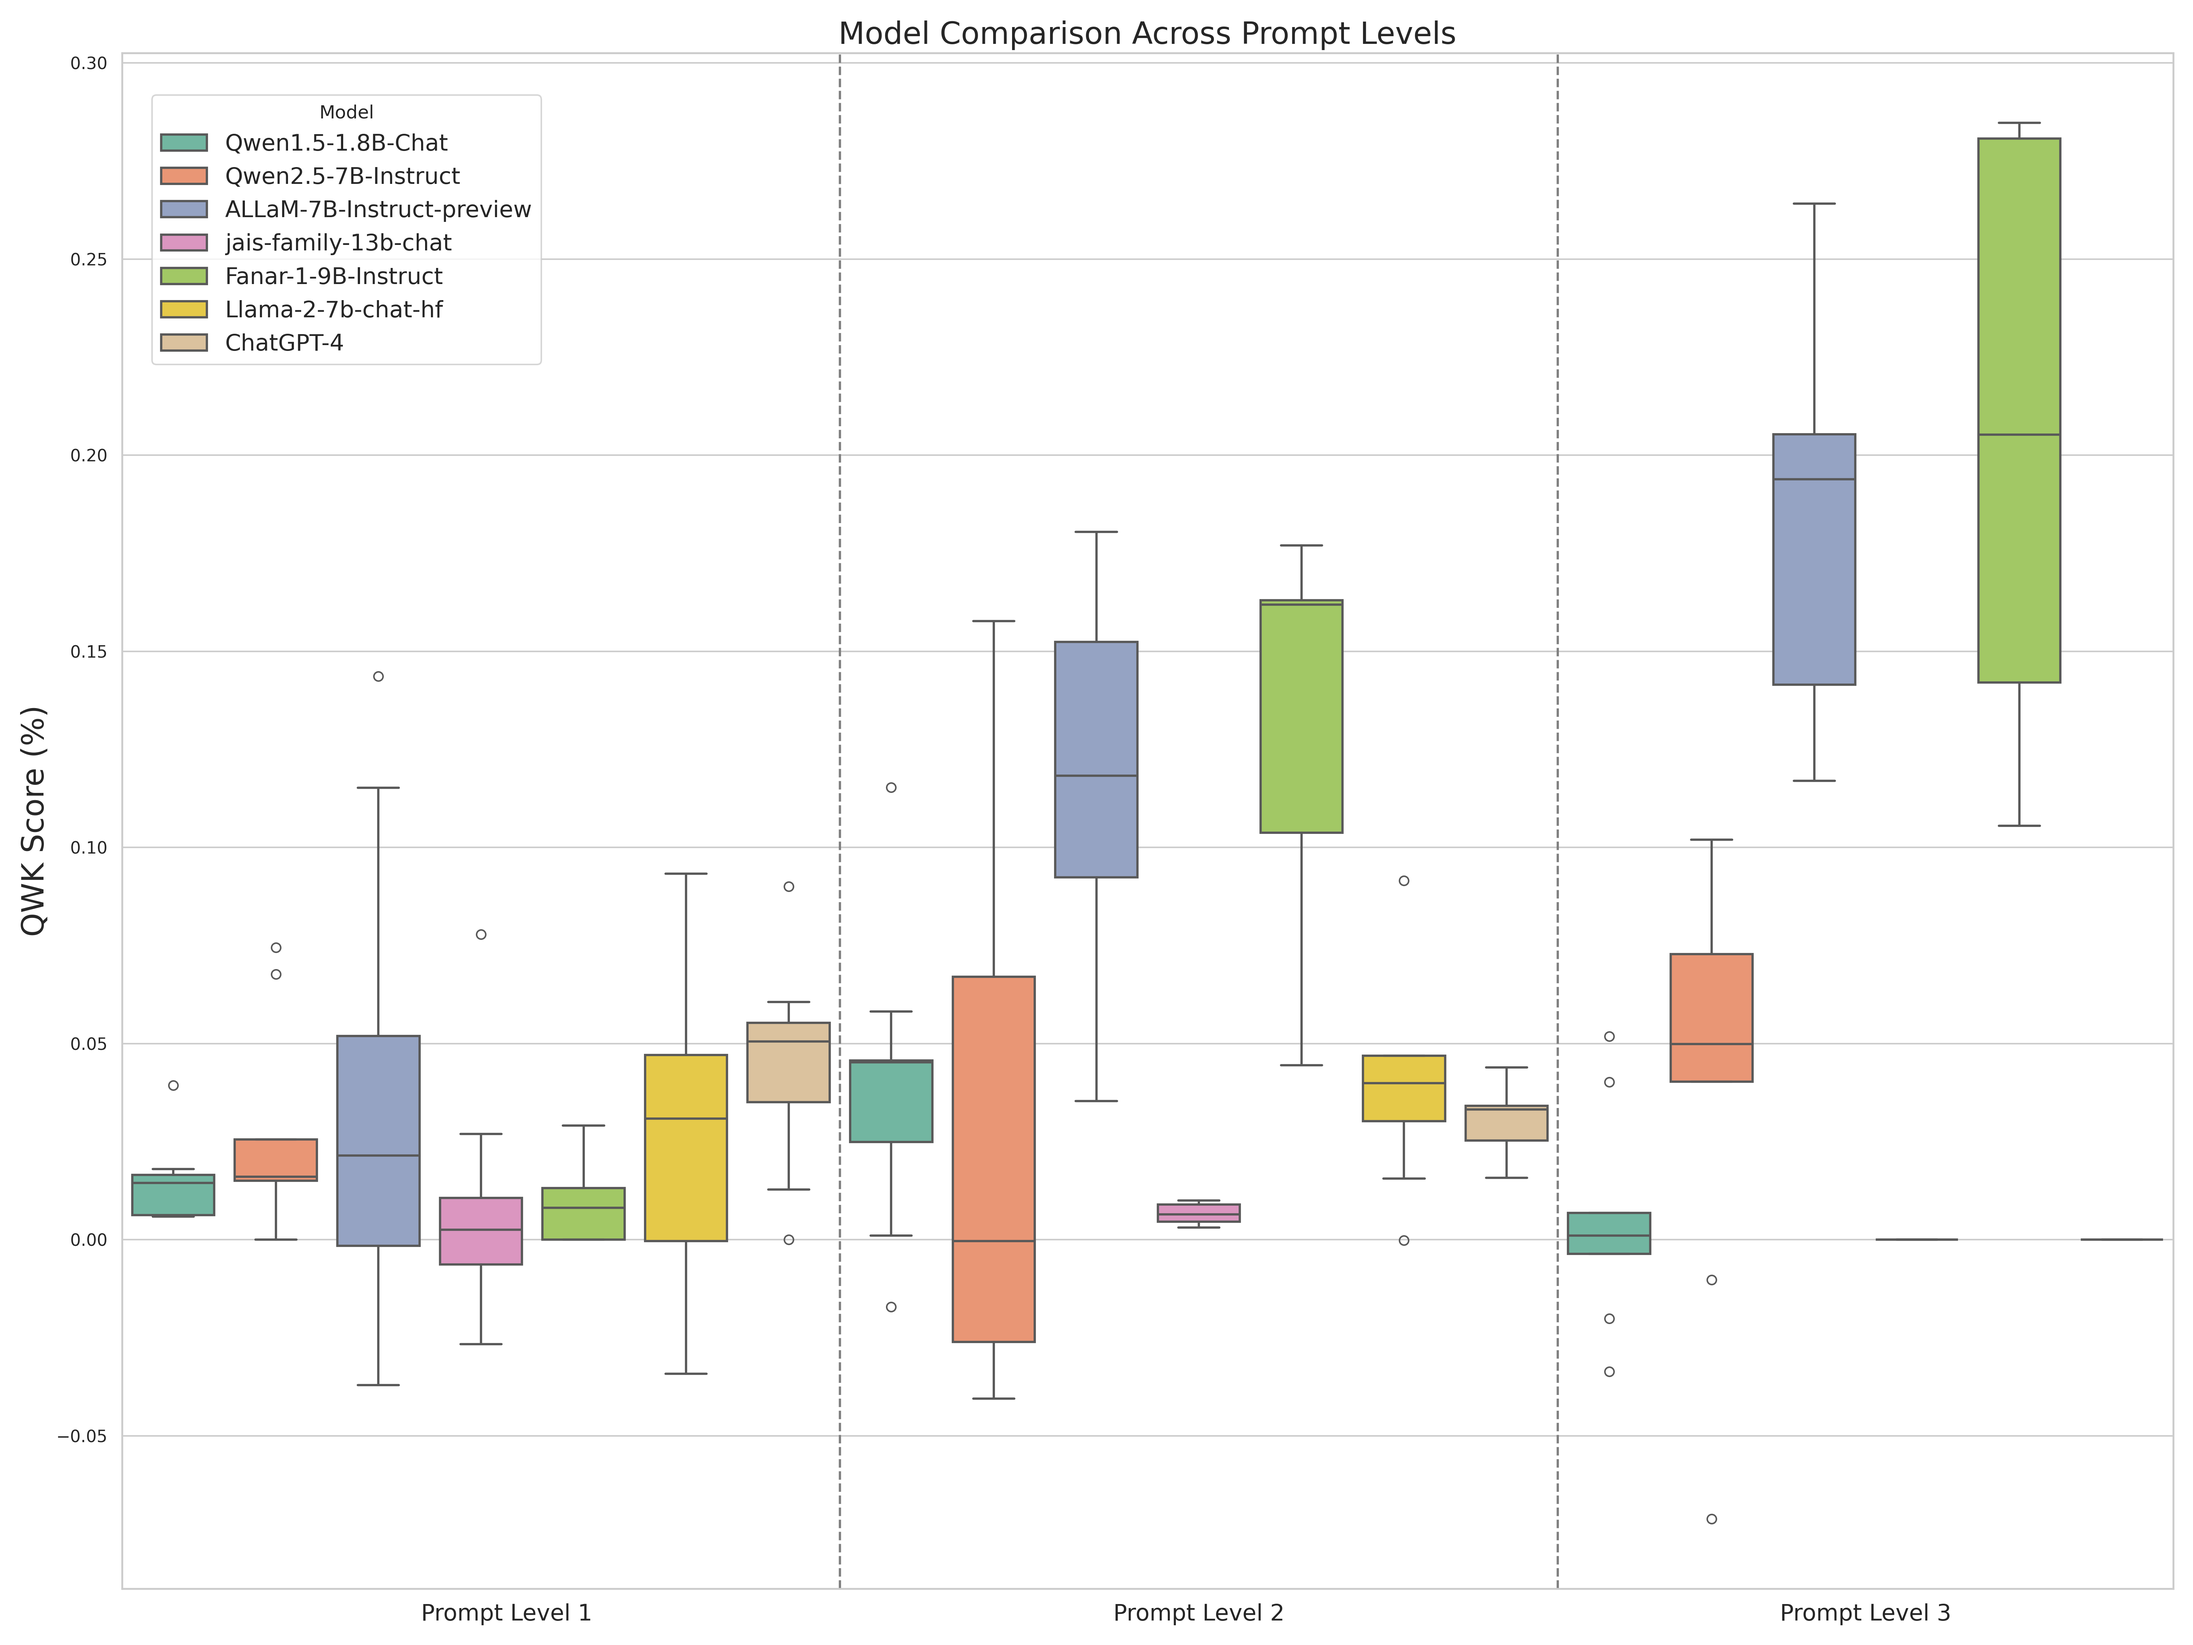
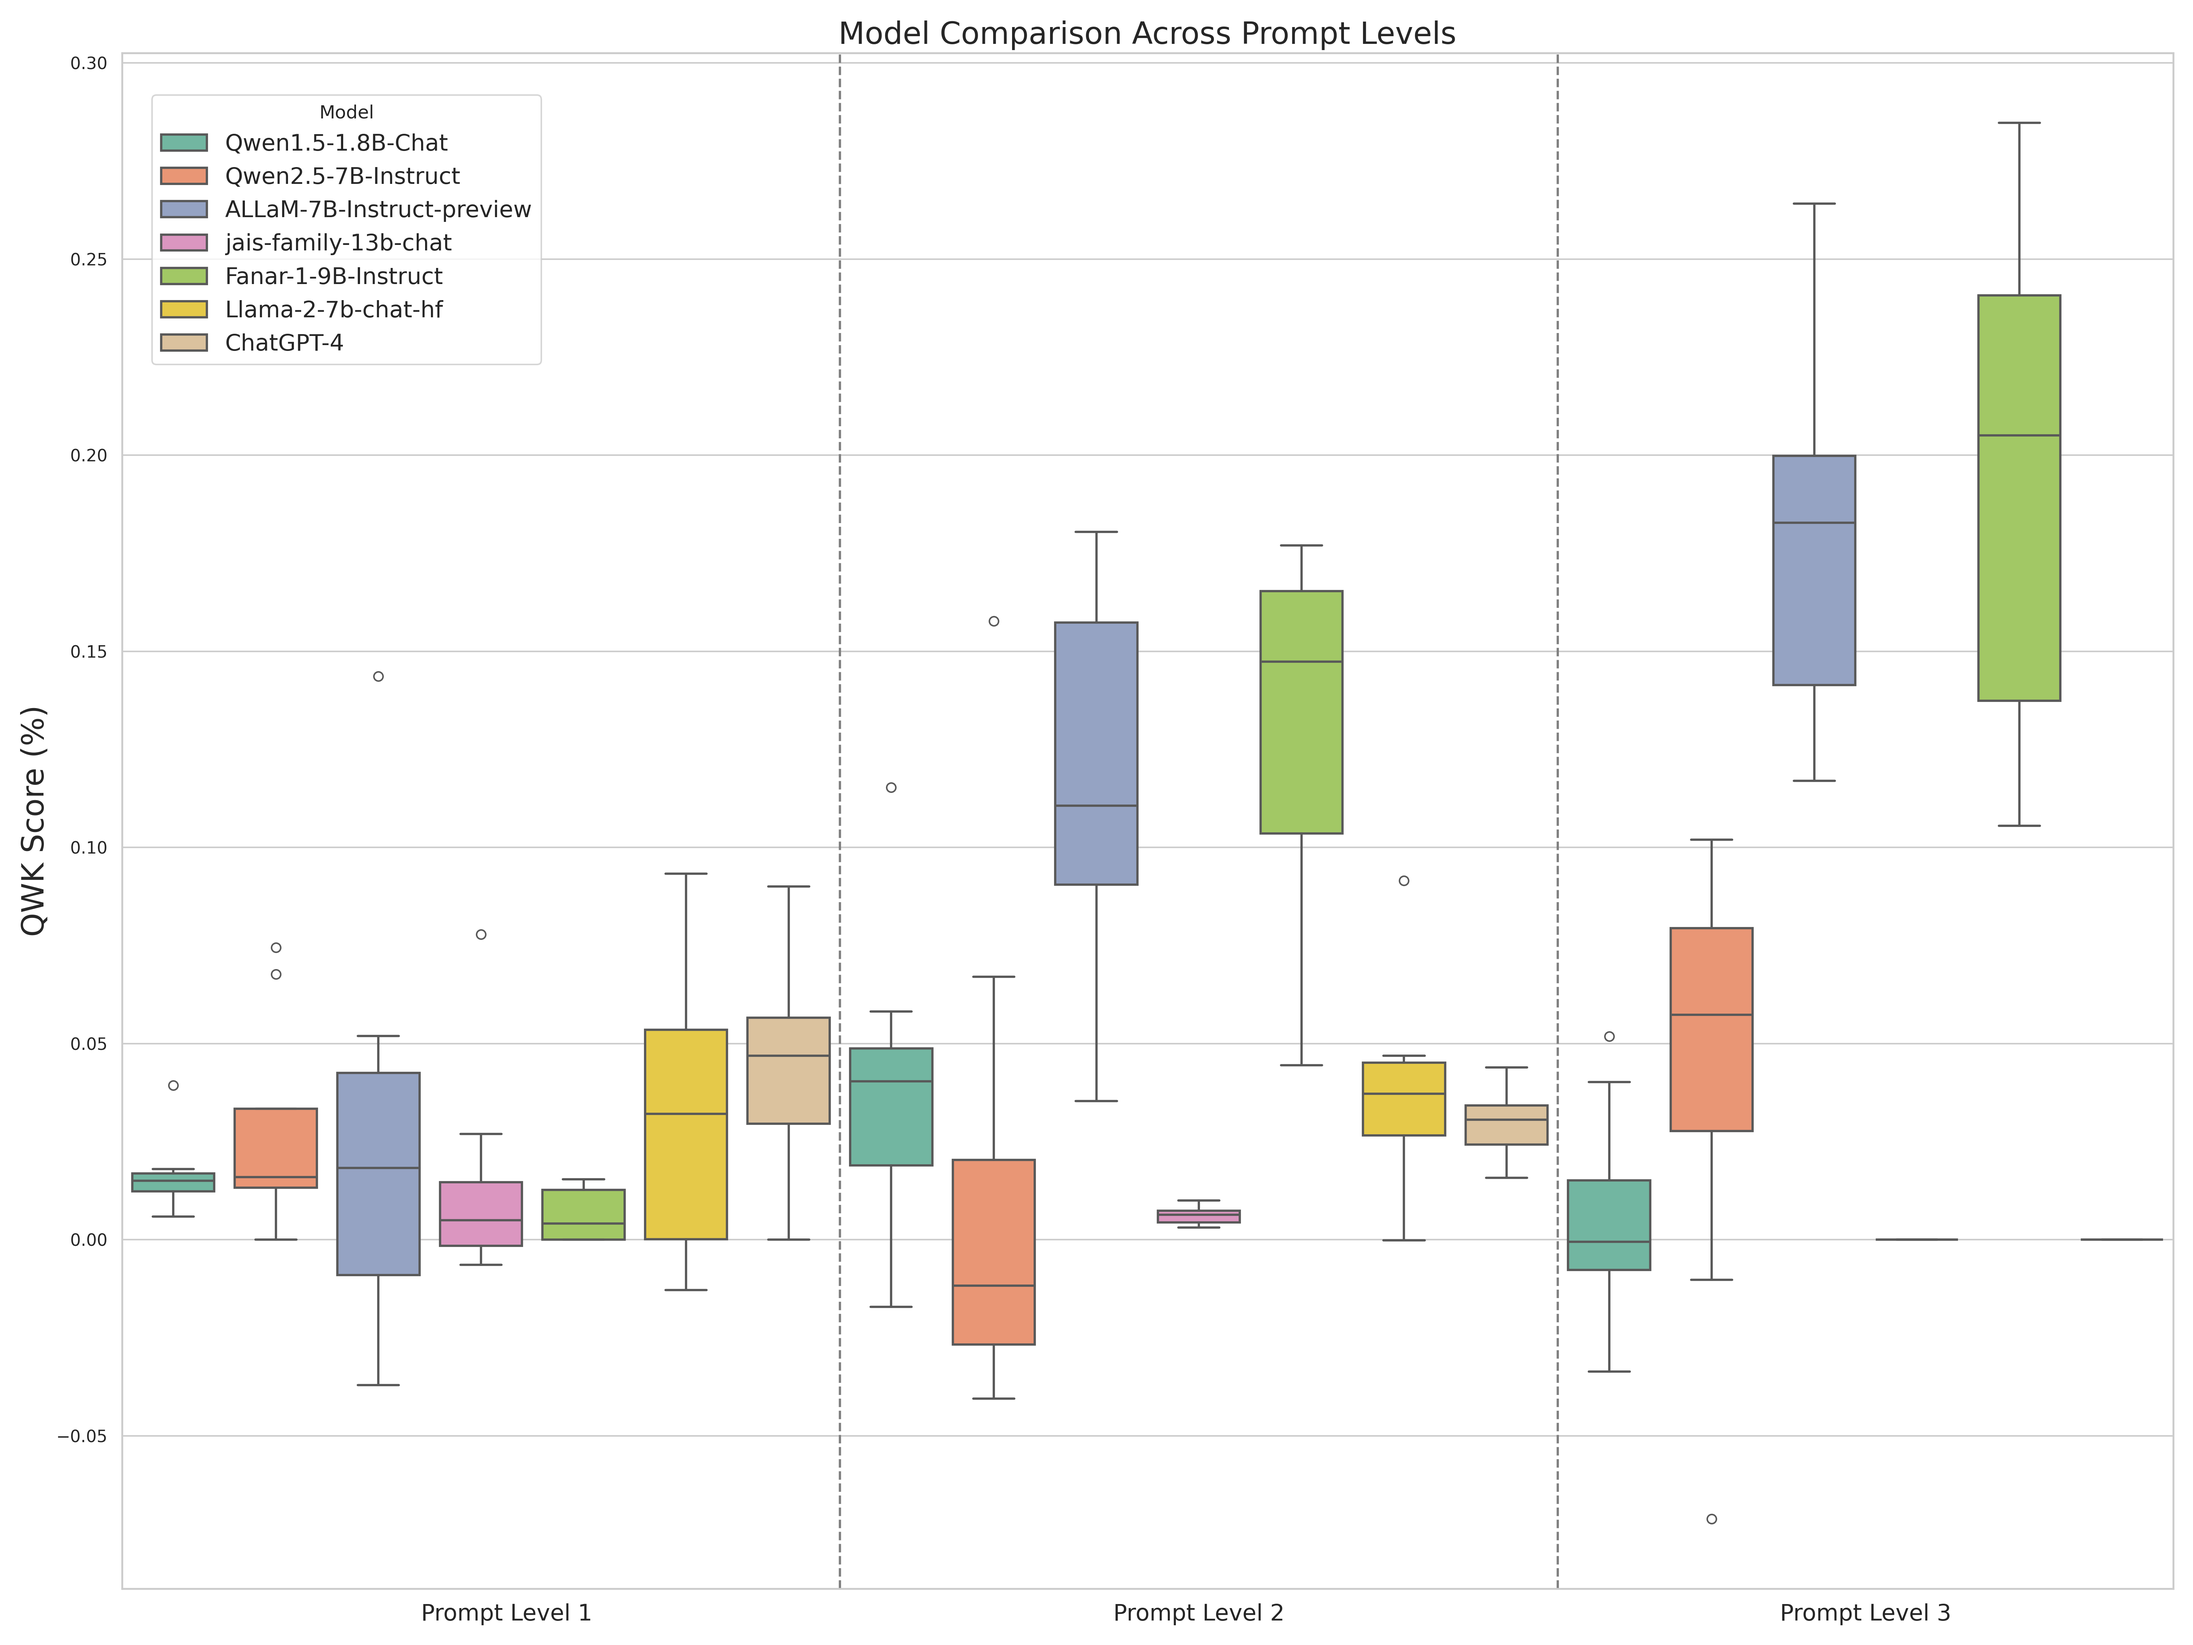
Remove final_score in visualization

diff --git a/visualization/src/line_graph.py b/visualization/src/line_graph.py
@@ -24,7 +24,7 @@ for i, model_paths in enumerate(evaluation_path, 1):
         data[model_name].append(df.iloc[0])  # Assume one row per file
 
 # Aspects to plot
-aspects = ['organization', 'vocabulary', 'style', 'development', 'mechanics', 'structure', 'relevance', 'final_score', 'total_score']
+aspects = ['organization', 'vocabulary', 'style', 'development', 'mechanics', 'structure', 'relevance', 'total_score']
 
 # Create a 4x2 subplot figure
 fig, axes = plt.subplots(3, 3, figsize=(20, 16), sharex=True)
@@ -44,6 +44,8 @@ for idx, aspect in enumerate(aspects):
     ax.set_xlabel('Prompt Level')
     ax.set_ylabel('Score')
     ax.legend()
+
+axes[8].axis('off')
 
 # Adjust layout and save
 plt.tight_layout()

diff --git a/visualization/src/box_grid.py b/visualization/src/box_grid.py
@@ -18,7 +18,7 @@ MODELS = ["Qwen1.5-1.8B-Chat", "Qwen2.5-7B-Instruct", "ALLaM-7B-Instruct-preview
 
 # Define aspects
 aspects = ['organization', 'vocabulary', 'style', 'development',
-           'mechanics', 'structure', 'relevance', 'final_score', 'total_score']
+           'mechanics', 'structure', 'relevance', 'total_score']
 
 # Prepare data with manual positions by prompt level
 rows = []
